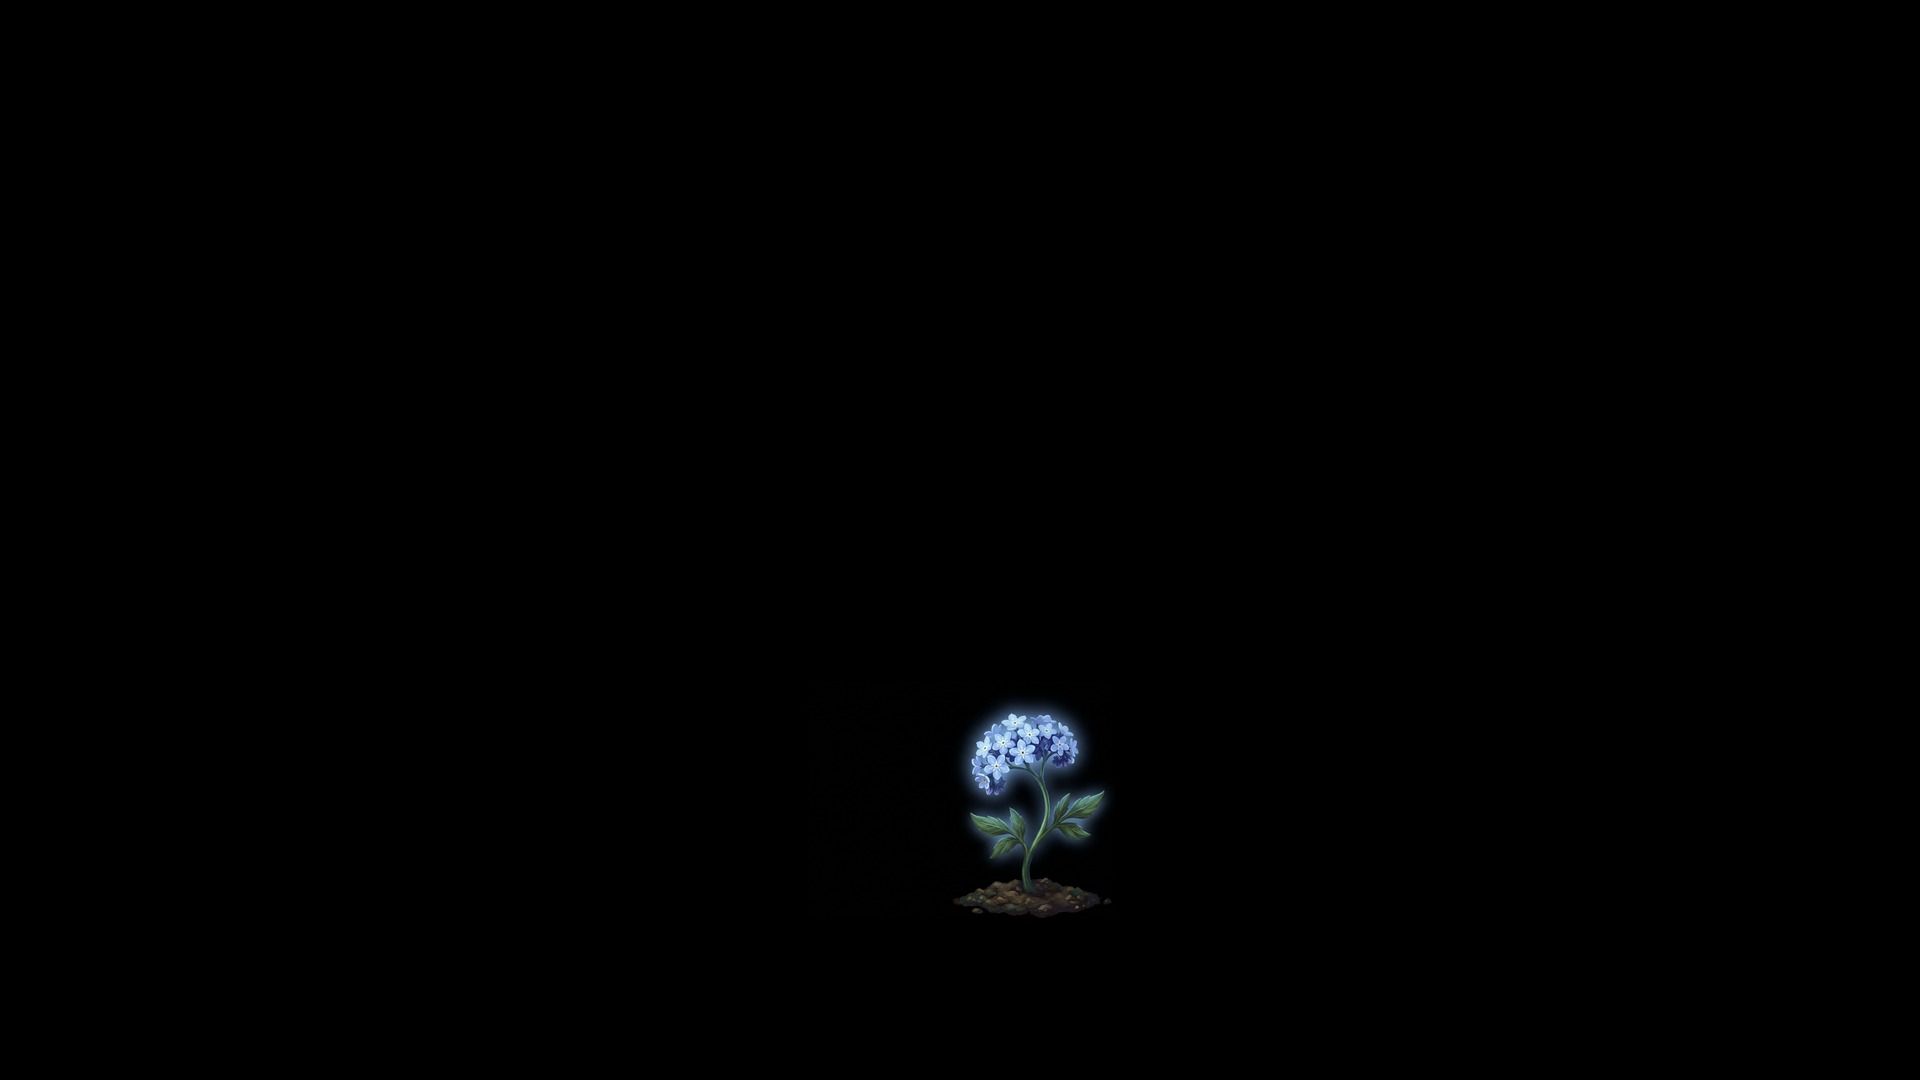
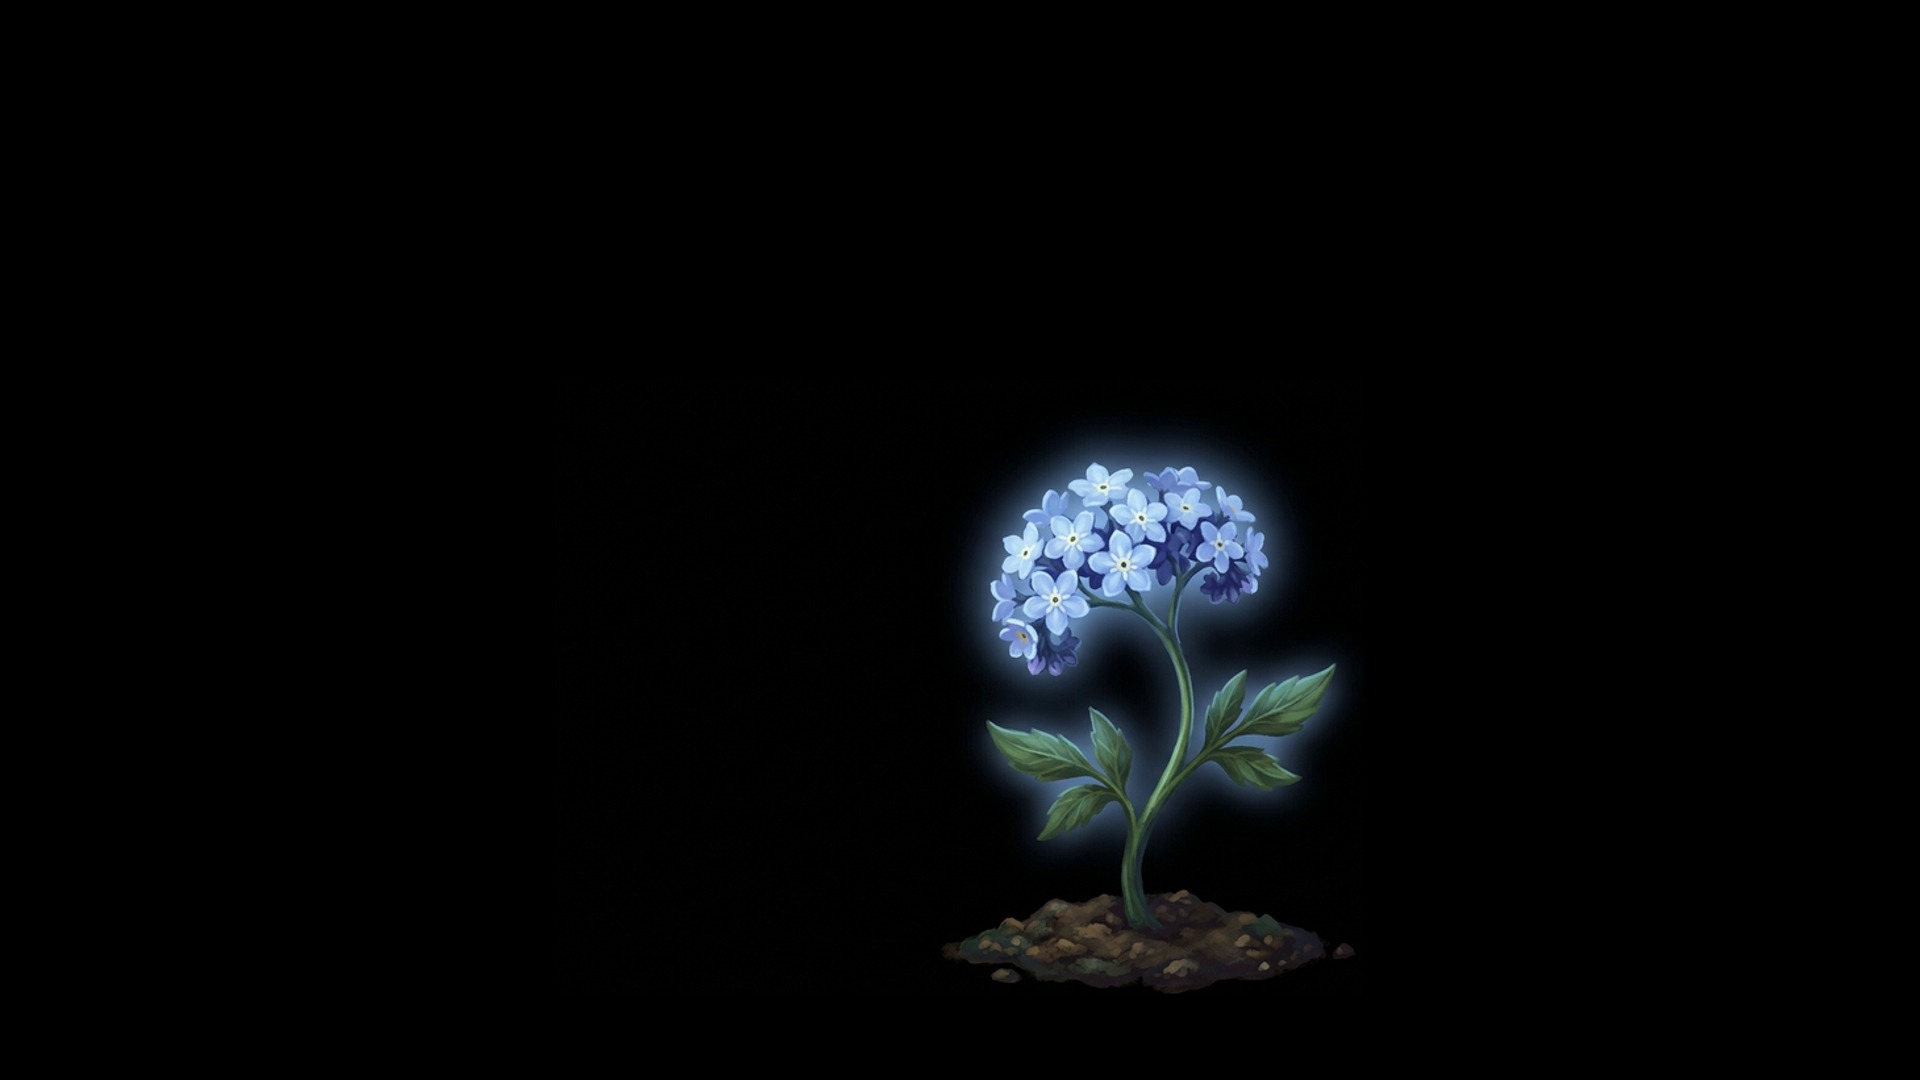
sum

Changed region(s): [[0.5, 0.3972, 0.7188, 0.9167]]

diff --git a/client/components/WindScene.tsx b/client/components/WindScene.tsx
@@ -6,7 +6,9 @@ import type { PublicPlant, Species } from "@/lib/types";
 import { Icon } from "./Icon";
 import { makeDotTexture, makePetalTexture, makeStreakTexture } from "./pixi-utils";
 
-const CLIP_TWEAKS: Partial<Record<Species, { scale?: number; offsetY?: number }>> = {};
+const CLIP_TWEAKS: Partial<
+  Record<Species, { scale?: number; offsetY?: number; opacity?: number; maxSeconds?: number; rate?: number }>
+> = {};
 
 interface SceneApi {
   setHolding: (holding: boolean) => void;
@@ -109,6 +111,19 @@ export default function WindScene({ plant, onDone }: { plant: PublicPlant; onDon
         const base = { x: width / 2, y: height * 0.8 };
         let plantScale = 1;
 
+        const fitVideo = () => {
+          const video = videoRef.current;
+          if (!video || !video.videoWidth || !video.videoHeight) return;
+          const fitted = Math.max(width / video.videoWidth, height / video.videoHeight);
+          const displayHeight = video.videoHeight * fitted;
+          const videoPlantHeight = displayHeight * 0.78;
+          const appPlantHeight = Math.min(width * 0.2, 240);
+          const scale = (appPlantHeight / videoPlantHeight) * (tweak.scale ?? 1);
+          const contentBaseY = (height - displayHeight) / 2 + displayHeight * 0.92 + (tweak.offsetY ?? 0);
+          video.style.transformOrigin = `${(width / 2).toFixed(1)}px ${contentBaseY.toFixed(1)}px`;
+          video.style.transform = `translateY(${(base.y - contentBaseY).toFixed(1)}px) scale(${scale.toFixed(4)})`;
+        };
+
         const layout = () => {
           width = app.screen.width;
           height = app.screen.height;
@@ -120,8 +135,10 @@ export default function WindScene({ plant, onDone }: { plant: PublicPlant; onDon
           base.x = width / 2;
           base.y = height * 0.8;
           sprite.position.set(base.x, base.y);
+          fitVideo();
         };
         layout();
+        videoRef.current?.addEventListener("loadedmetadata", fitVideo);
 
         const spawnEmbers = () => {
           const count = reduced ? 0 : 90;
@@ -169,19 +186,30 @@ export default function WindScene({ plant, onDone }: { plant: PublicPlant; onDon
         let elapsed = 0;
         let videoMode: "idle" | "pending" | "on" | "off" = "idle";
         let videoEndTime = 0;
+        let videoStartTime = 0;
         let videoBroken = false;
         let holding = false;
+
+        const finishVideo = () => {
+          if (videoMode !== "on") return;
+          videoEndTime = elapsed;
+          videoMode = "off";
+          if (videoRef.current) videoRef.current.style.opacity = "0";
+          spawnEmbers();
+        };
 
         const startRelease = () => {
           const video = videoRef.current;
           if (!reduced && video && !videoBroken) {
             videoMode = "pending";
             video.style.opacity = "0";
+            video.playbackRate = tweak.rate ?? 1;
             video
               .play()
               .then(() => {
                 videoMode = "on";
-                video.style.opacity = "1";
+                videoStartTime = elapsed;
+                video.style.opacity = String(tweak.opacity ?? 1);
               })
               .catch(() => {
                 videoMode = "off";
@@ -201,11 +229,7 @@ export default function WindScene({ plant, onDone }: { plant: PublicPlant; onDon
             startRelease();
           },
           videoEnded: () => {
-            if (videoMode !== "on") return;
-            videoEndTime = elapsed;
-            videoMode = "off";
-            if (videoRef.current) videoRef.current.style.opacity = "0";
-            spawnEmbers();
+            finishVideo();
           },
           videoFailed: () => {
             videoBroken = true;
@@ -242,6 +266,10 @@ export default function WindScene({ plant, onDone }: { plant: PublicPlant; onDon
             } else if (videoMode === "on") {
               sprite.alpha = Math.max(0, 1 - (elapsed - liftStart) / 0.4);
               sprite.rotation = Math.sin(elapsed * 0.9) * 0.015;
+              if (tweak.maxSeconds) {
+                const rate = tweak.rate ?? 1;
+                if (elapsed - videoStartTime > tweak.maxSeconds / rate) finishVideo();
+              }
             } else if (videoEndTime) {
               sprite.alpha = Math.max(0, sprite.alpha - dt * 2);
             } else {

diff --git a/client/tools/wind-clip-prompts.md b/client/tools/wind-clip-prompts.md
@@ -1,35 +1,55 @@
-# Wind-Release Clips — Generation Pack
+# Wind-Release Clips — Generation Pack (v2)
 
 Six short clips of the garden plants being lifted and carried away by the wind.
 Each clip is used over the dusk scene in the "let the wind take it" sequence.
+
+> **v2 lesson (from the first cherry attempt):** the model zoomed ~5× into our sprite,
+> generated a square frame, upscaled, and added noise, neon fringes and a watermark.
+> The fixes are below: **big-framing start frames** (regenerated), **16:9 mode forced**,
+> **no-zoom instructions**, and a **no-watermark plan**. Read "Why the first attempt failed".
 
 ## Settings (same for every clip)
 
 | Setting | Value |
 | --- | --- |
 | Mode | **Image-to-video** — attach the matching start frame from `client/public/video-frames/` as the **first frame** |
+| Aspect ratio | **16:9 — mandatory.** Never 1:1 or "auto" (that caused the crop+upscale mess) |
 | Duration | 5 seconds |
-| Aspect ratio | 16:9 |
 | Resolution | 1080p (720p acceptable) |
 | Camera | locked off — no pan, no zoom, no cuts |
-| Motion strength | medium-low (keep the camera still) |
+| Motion strength | **low-to-medium** (high motion = morphing) |
+| Watermark | **none** — use a plan/tool that exports without watermark (free tiers add one) |
 | Audio | not needed (plays muted) |
-| Naming | save as `client/public/assets/release/<species>.mp4` — e.g. `foxglove.mp4` |
+| Naming | save as `client/public/assets/release/<species>.mp4` |
 
 File names (exact): `peony.mp4` · `forget-me-not.mp4` · `cherry.mp4` · `rose.mp4` · `foxglove.mp4` · `wisteria.mp4`
 
 ## Workflow
 
-1. Run `node tools/make-video-frames.mjs` (already generated once — re-run only if the plant art changes)
-2. Open your video tool → image-to-video → upload `public/video-frames/<species>.jpg` as the **first frame**
-3. Paste the matching prompt below, plus the shared negative prompt
-4. Generate, check against the checklist at the bottom, download
-5. Drop the mp4 into `client/public/assets/release/` using the exact file name
+1. Run `node tools/make-video-frames.mjs` — produces **big-framing** start frames (the plant fills ~78% of the frame; the app auto-scales the clip down to garden size, so bigger pixels on the plant = better generation)
+2. Open your tool → image-to-video → upload `public/video-frames/<species>.jpg` as the **first frame** → **force 16:9**
+3. Paste the matching prompt, plus the shared negative prompt
+4. Generate, check against the checklist, download
+5. Drop the mp4 into `client/public/assets/release/` with the exact file name
+6. Optional sanity check: `node tools/inspect-clip.mjs <species>` — prints duration/resolution and screenshots frames so we can compare before wiring
+7. Nothing else to align — `WindScene` auto-fits the clip to the plant; if a clip still sits slightly off, it has a per-species nudge table
+
+## Why the first attempt failed (troubleshooting)
+
+| Symptom in the cherry clip | Cause | Fix |
+| --- | --- | --- |
+| Plant filled the whole frame; heavy speckle noise; neon fringes | Output was **1440×1440 square** — it cropped into our small-plant start frame and upscaled | Force **16:9**; use the new **big-framing** start frames (v2) |
+| "KlingAI 3.0" text bottom-right | Free-tier **watermark** | Use a plan/tool that exports without watermark |
+| Grainy background, over-saturated colors | The model "improved" the image (grain + grading) | The no-grain / no-grading lines in the prompts below |
 
 ## Shared negative prompt (paste with every generation)
 
 ```
-camera movement, pan, zoom, dolly, cut, scene change, background scenery, sky, clouds, ground, floor, horizon, grass field, text, watermark, logo, signature, hands, fingers, people, animals, other flowers, other plants, daylight, sunlight, bright background, colored background, fast motion, harsh motion, flicker
+camera movement, pan, zoom, dolly, cut, scene change, reframe, background scenery, sky, clouds,
+ground, floor, horizon, grass field, text, watermark, logo, signature, hands, fingers, people,
+animals, other flowers, other plants, daylight, sunlight, bright background, colored background,
+film grain, noise, chromatic aberration, color grading, oversaturation, neon glow, lens flare,
+vignette, fast motion, harsh motion, flicker
 ```
 
 ## The prompts
@@ -37,14 +57,18 @@ camera movement, pan, zoom, dolly, cut, scene change, background scenery, sky, c
 ### 1 — Peony (gratitude) → `peony.mp4`
 
 ```
-Image-to-video. Use the attached image as the first frame exactly as-is: a single glowing
-warm-golden peony with layered petals, growing from a small mound of dark soil, centered,
-on a pure black background.
+Image-to-video, 16:9. Use the attached image as the first frame exactly as-is: a single glowing
+warm-golden peony with layered petals, growing from a small mound of dark soil, on a pure black
+background, plant centered and filling most of the frame height.
+
+Hard rules: keep the plant at the exact same size, scale, position and design as the first frame
+throughout the entire clip. Do not zoom, do not reframe, do not redesign the plant, do not change
+its colors or style. Do not add film grain, noise, color grading or extra glow rings.
 
 Timeline (5 seconds):
 0.0–0.5s — complete stillness. The peony rests exactly as in the first frame.
 0.5–1.5s — a soft gust of wind arrives from the lower left; the leaves and petals tremble,
-the stem bends gently, golden light brightens slightly.
+the stem bends gently, its amber glow brightens slightly.
 1.5–3.5s — the wind lifts the peony from the soil. It rises slowly and drifts up and to the
 right, tilting and tumbling gently, roots released, trailing amber-gold light and a few petals.
 3.5–5.0s — the peony dissolves into warm golden petals and glowing amber motes that scatter
@@ -59,9 +83,13 @@ No text, no watermark, no hands, no people, no other plants.
 ### 2 — Forget-me-not (memory) → `forget-me-not.mp4`
 
 ```
-Image-to-video. Use the attached image as the first frame exactly as-is: a pale blue
+Image-to-video, 16:9. Use the attached image as the first frame exactly as-is: a pale blue
 forget-me-not cluster on a slender stem with soft green leaves, growing from a small mound
-of dark soil, centered, on a pure black background.
+of dark soil, on a pure black background, plant centered and filling most of the frame height.
+
+Hard rules: keep the plant at the exact same size, scale, position and design as the first frame
+throughout the entire clip. Do not zoom, do not reframe, do not redesign the plant, do not change
+its colors or style. Do not add film grain, noise, color grading or extra glow rings.
 
 Timeline (5 seconds):
 0.0–0.5s — complete stillness. The flower rests exactly as in the first frame.
@@ -81,16 +109,20 @@ No text, no watermark, no hands, no people, no other plants.
 ### 3 — Cherry blossom (hope) → `cherry.mp4`
 
 ```
-Image-to-video. Use the attached image as the first frame exactly as-is: a young cherry
-blossom sapling covered in pink blossoms with a slender trunk, growing from a small mound
-of dark soil, centered, on a pure black background.
+Image-to-video, 16:9. Use the attached image as the first frame exactly as-is: a young cherry
+blossom sapling covered in pink blossoms with a slender trunk, growing from a small mound of
+dark soil, on a pure black background, plant centered and filling most of the frame height.
+
+Hard rules: keep the plant at the exact same size, scale, position and design as the first frame
+throughout the entire clip. Do not zoom, do not reframe, do not redesign the plant, do not change
+its colors or style. Do not add film grain, noise, color grading or extra glow rings.
 
 Timeline (5 seconds):
 0.0–0.5s — complete stillness. The sapling rests exactly as in the first frame.
 0.5–1.5s — a soft gust of wind arrives from the lower left; blossoms rustle, a few petals
 loosen, the trunk sways gently, its rose-pink glow brightens.
-1.5–3.5s — the wind lifts the sapling from the soil. It rises slowly and drifts up and to
-the right, tilting and tumbling gently, roots released, trailing pink petals and light.
+1.5–3.5s — the wind lifts the sapling from the soil. It rises slowly and drifts up and to the
+right, tilting and tumbling gently, roots released, trailing pink petals and light.
 3.5–5.0s — the sapling dissolves into pink cherry petals and glowing motes that scatter to
 the right and fade out, leaving only black.
 
@@ -103,9 +135,13 @@ No text, no watermark, no hands, no people, no other plants.
 ### 4 — Rose (anger) → `rose.mp4`
 
 ```
-Image-to-video. Use the attached image as the first frame exactly as-is: a single deep
-crimson rose with ember-red glow, growing from a dark thorny bramble on a small mound of
-dark soil, centered, on a pure black background.
+Image-to-video, 16:9. Use the attached image as the first frame exactly as-is: a single deep
+crimson rose with ember-red glow, growing from a dark thorny bramble on a small mound of dark
+soil, on a pure black background, plant centered and filling most of the frame height.
+
+Hard rules: keep the plant at the exact same size, scale, position and design as the first frame
+throughout the entire clip. Do not zoom, do not reframe, do not redesign the plant, do not change
+its colors or style. Do not add film grain, noise, color grading or extra glow rings.
 
 Timeline (5 seconds):
 0.0–0.5s — complete stillness. The rose rests exactly as in the first frame.
@@ -125,9 +161,13 @@ No text, no watermark, no hands, no people, no other plants.
 ### 5 — Foxglove (letter) → `foxglove.mp4`
 
 ```
-Image-to-video. Use the attached image as the first frame exactly as-is: a tall lavender
+Image-to-video, 16:9. Use the attached image as the first frame exactly as-is: a tall lavender
 foxglove with bell-shaped blossoms on a leafy stem, growing from a small mound of dark soil,
-centered, on a pure black background.
+on a pure black background, plant centered and filling most of the frame height.
+
+Hard rules: keep the plant at the exact same size, scale, position and design as the first frame
+throughout the entire clip. Do not zoom, do not reframe, do not redesign the plant, do not change
+its colors or style. Do not add film grain, noise, color grading or extra glow rings.
 
 Timeline (5 seconds):
 0.0–0.5s — complete stillness. The foxglove rests exactly as in the first frame.
@@ -147,9 +187,13 @@ No text, no watermark, no hands, no people, no other plants.
 ### 6 — Wisteria (feeling) → `wisteria.mp4`
 
 ```
-Image-to-video. Use the attached image as the first frame exactly as-is: a teal glowing
+Image-to-video, 16:9. Use the attached image as the first frame exactly as-is: a teal glowing
 wisteria cluster hanging from a delicate branch, growing from a small mound of dark soil,
-centered, on a pure black background.
+on a pure black background, plant centered and filling most of the frame height.
+
+Hard rules: keep the plant at the exact same size, scale, position and design as the first frame
+throughout the entire clip. Do not zoom, do not reframe, do not redesign the plant, do not change
+its colors or style. Do not add film grain, noise, color grading or extra glow rings.
 
 Timeline (5 seconds):
 0.0–0.5s — complete stillness. The wisteria rests exactly as in the first frame.
@@ -168,13 +212,15 @@ No text, no watermark, no hands, no people, no other plants.
 
 ## Checklist before saving a clip
 
-- [ ] First frame matches the uploaded start frame (the plant at rest, same position and size)
-- [ ] The background stays **completely black** for the entire clip — no scenery appears
-- [ ] The camera does not move at all
+- [ ] **16:9 output** — not square, not cropped
+- [ ] **No watermark** anywhere in the frame
+- [ ] First frame matches the uploaded start frame (same plant, same size, same position)
+- [ ] The plant **never zooms or reframes** during the clip
+- [ ] Background stays **pure black** — no grey haze, no speckle noise, no vignette
+- [ ] No neon fringes, chromatic aberration, film grain, or color grading
 - [ ] The plant lifts up-and-right and is **fully gone by the end** (frame empties to black)
-- [ ] The first ~0.5s is still (this is what makes the in-game crossfade seamless)
-- [ ] No text, watermark, hands, or other plants
+- [ ] The first ~0.5s is still (this makes the in-game crossfade seamless)
 
-If the model adds a background: append `pure black studio background, the black background must never change`.
-If the camera drifts: lower the motion strength and append `static locked camera` twice.
-If the plant doesn't fully disappear: append `by the end of the clip the frame is completely empty and black`.
+If a clip comes out slightly unaligned in the app anyway: capture it with
+`node tools/inspect-clip.mjs <species>` and we add a one-line nudge (`scale` / `offsetY` /
+`maxSeconds` to cut a drifting tail) in `components/WindScene.tsx`.
